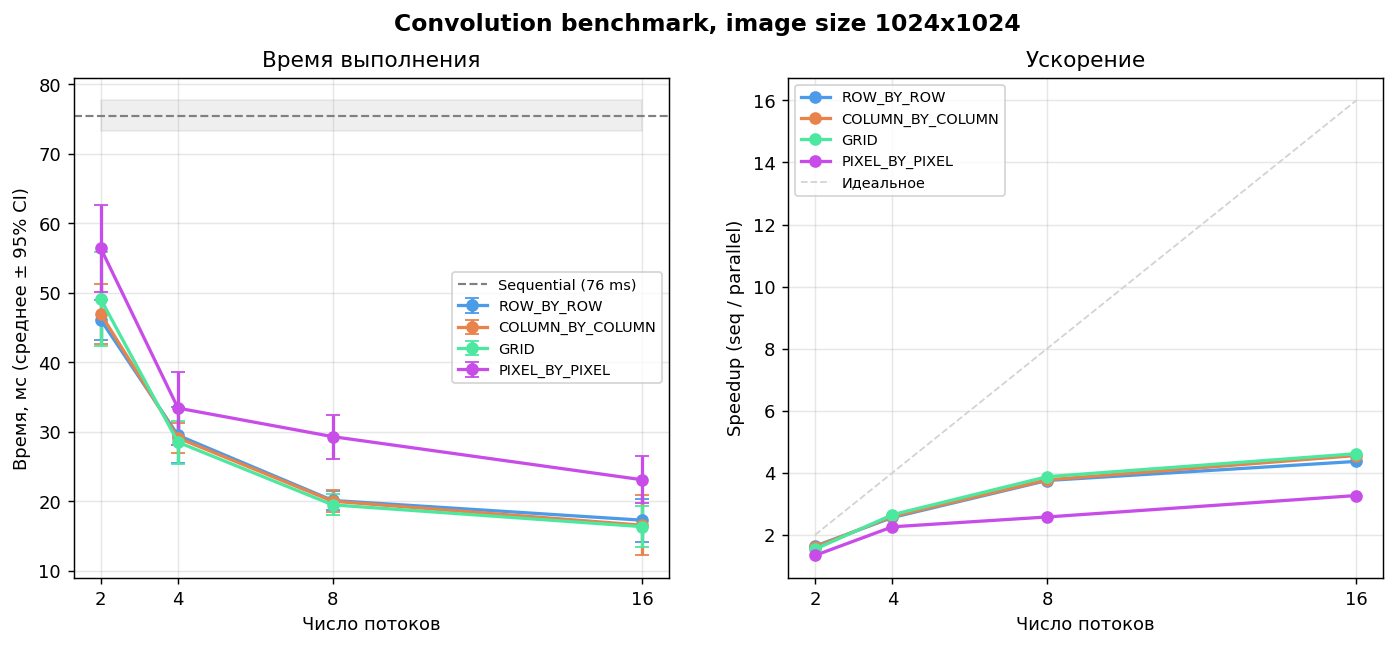
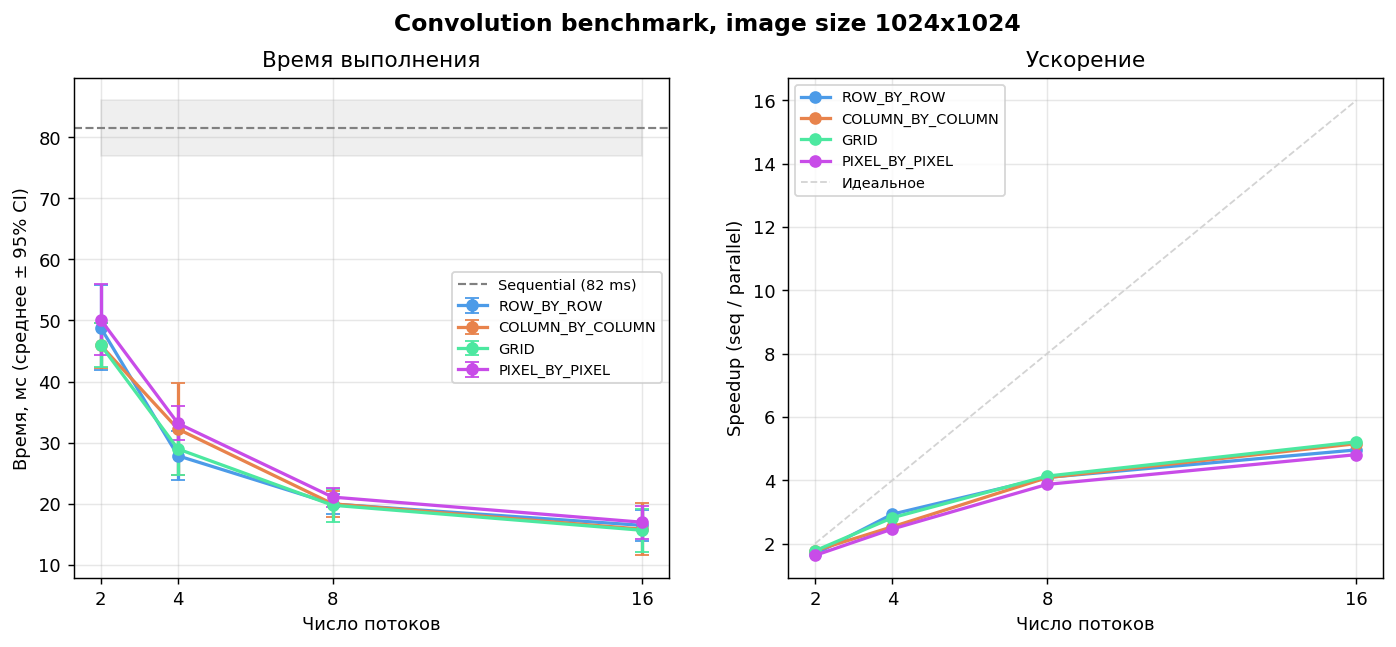
update ANALYSIS

diff --git a/ANALYSIS.md b/ANALYSIS.md
@@ -6,59 +6,52 @@
 
 ## Размер изображения 512x512
 
-**Последовательная реализация:** 21 ± 3 мс
+**Последовательная реализация:** 22 ± 2 мс
 
 ### Параллельные методы при 16 потоках
 
 | Метод | Время, мс | ±95% CI | Ускорение |
 |---|---|---|---|
-| ROW_BY_ROW | 5 | 1 | 3.92× |
-| COLUMN_BY_COLUMN | 5 | 2 | 4.11× |
-| GRID | 6 | 2 | 3.65× |
-| PIXEL_BY_PIXEL | 8 | 2 | 2.76× |
+| ROW_BY_ROW | 5 | 1 | 4.63× |
+| COLUMN_BY_COLUMN | 5 | 2 | 4.09× |
+| GRID | 5 | 1 | 4.07× |
+| PIXEL_BY_PIXEL | 6 | 2 | 3.87× |
 
 ![График для 512x512](benchmark/results/benchmark_512.png)
 
 ## Размер изображения 1024x1024
 
-**Последовательная реализация:** 76 ± 2 мс
+**Последовательная реализация:** 82 ± 5 мс
 
 ### Параллельные методы при 16 потоках
 
 | Метод | Время, мс | ±95% CI | Ускорение |
 |---|---|---|---|
-| ROW_BY_ROW | 17 | 3 | 4.37× |
-| COLUMN_BY_COLUMN | 17 | 4 | 4.56× |
-| GRID | 16 | 3 | 4.61× |
-| PIXEL_BY_PIXEL | 23 | 3 | 3.27× |
+| ROW_BY_ROW | 16 | 3 | 4.96× |
+| COLUMN_BY_COLUMN | 16 | 4 | 5.15× |
+| GRID | 16 | 3 | 5.21× |
+| PIXEL_BY_PIXEL | 17 | 3 | 4.81× |
 
 ![График для 1024x1024](benchmark/results/benchmark_1024.png)
 
 ## Размер изображения 2048x2048
 
-**Последовательная реализация:** 312 ± 12 мс
+**Последовательная реализация:** 329 ± 13 мс
 
 ### Параллельные методы при 16 потоках
 
 | Метод | Время, мс | ±95% CI | Ускорение |
 |---|---|---|---|
-| ROW_BY_ROW | 52 | 3 | 6.04× |
-| COLUMN_BY_COLUMN | 54 | 7 | 5.82× |
-| GRID | 71 | 8 | 4.38× |
-| PIXEL_BY_PIXEL | 54 | 4 | 5.82× |
+| ROW_BY_ROW | 53 | 4 | 6.21× |
+| COLUMN_BY_COLUMN | 53 | 4 | 6.24× |
+| GRID | 52 | 5 | 6.35× |
+| PIXEL_BY_PIXEL | 54 | 4 | 6.12× |
 
 ![График для 2048x2048](benchmark/results/benchmark_2048.png)
 
 ---
 ## Наблюдения
-
-### Сравнение стратегий
-*   **Лидеры**: `ROW_BY_ROW` и `COLUMN_BY_COLUMN` стабильно эффективны на всех размерах изображений.
-*   **GRID**: Демонстрирует стабильность, но на максимальном разрешении (2048x2048) заметно уступает строчно-столбцовым методам.
-
 ### Эффективность и масштабируемость
 *   **Зависимость от размера**: С ростом разрешения ускорение увеличивается (от ~4× до ~6×), так как полезные вычисления начинают превалировать над затратами на управление потоками.
 *   **Лимит потоков**: Рост производительности затухает после 8–16 потоков. Это указывает на то, что узким местом становится пропускная способность памяти (Memory Wall), а не мощность процессора.
 
-### Итоговый вывод
-Для задач свёртки оптимально использовать **построчное** или **постолбцовое** распределение. Метод **GRID** не дает преимуществ.
